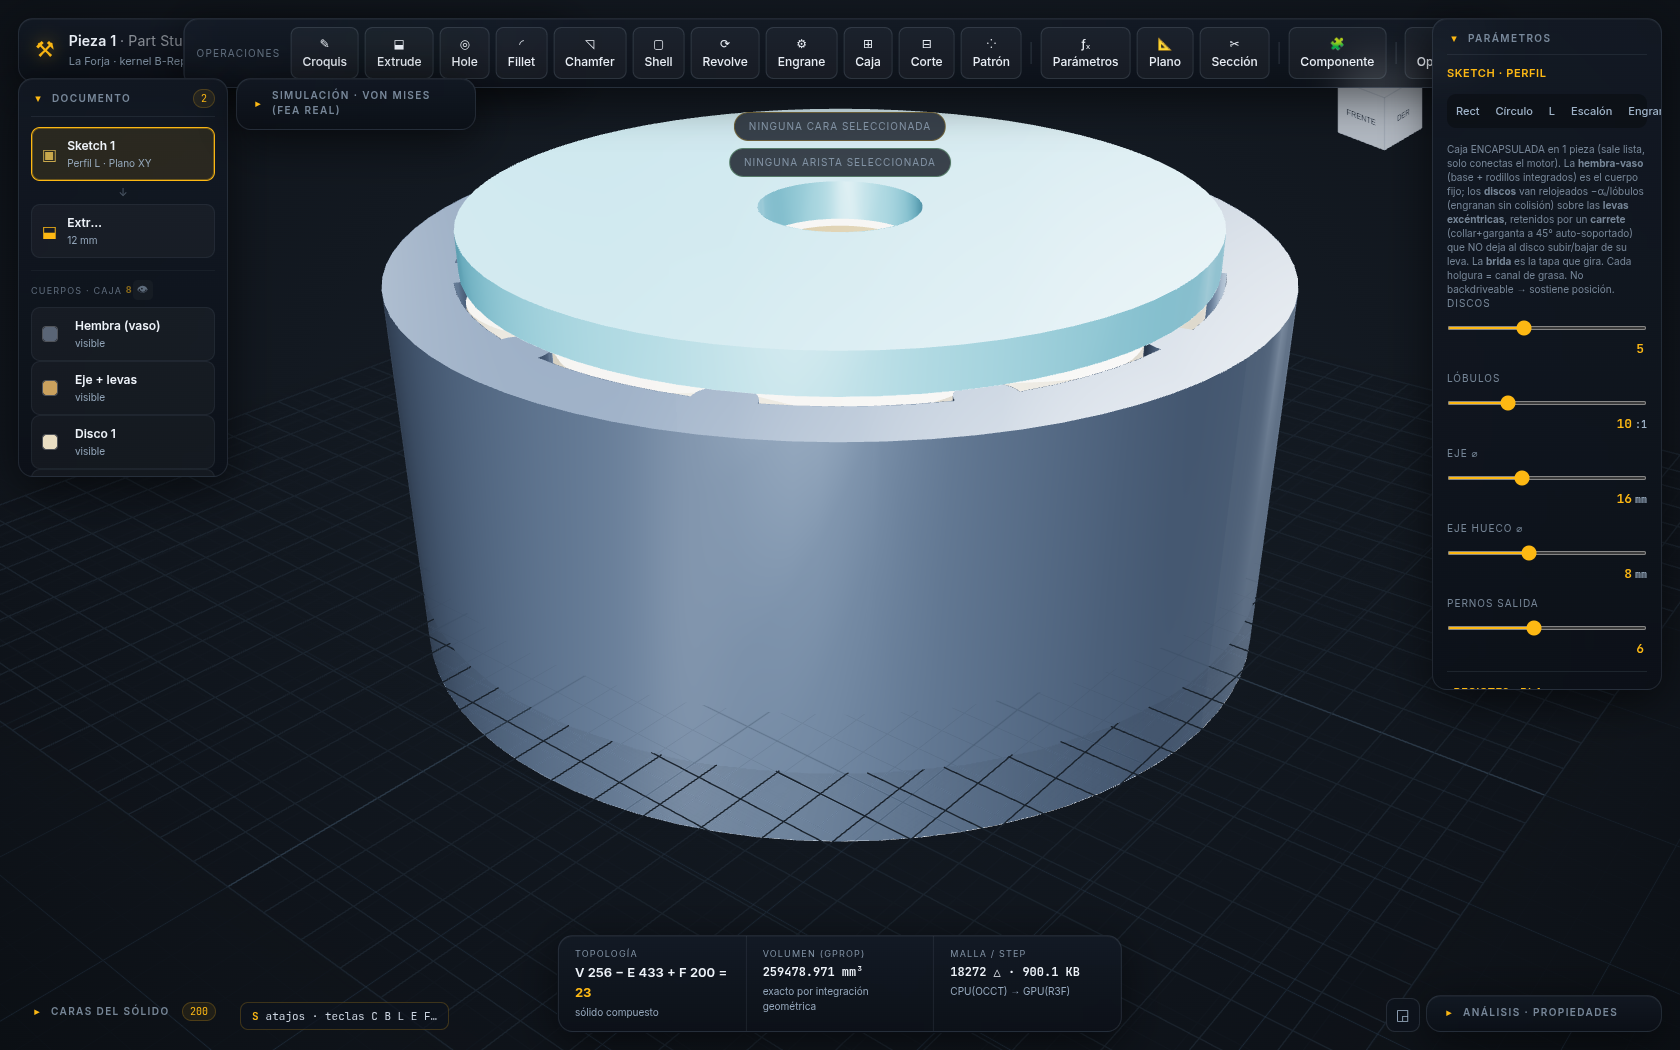
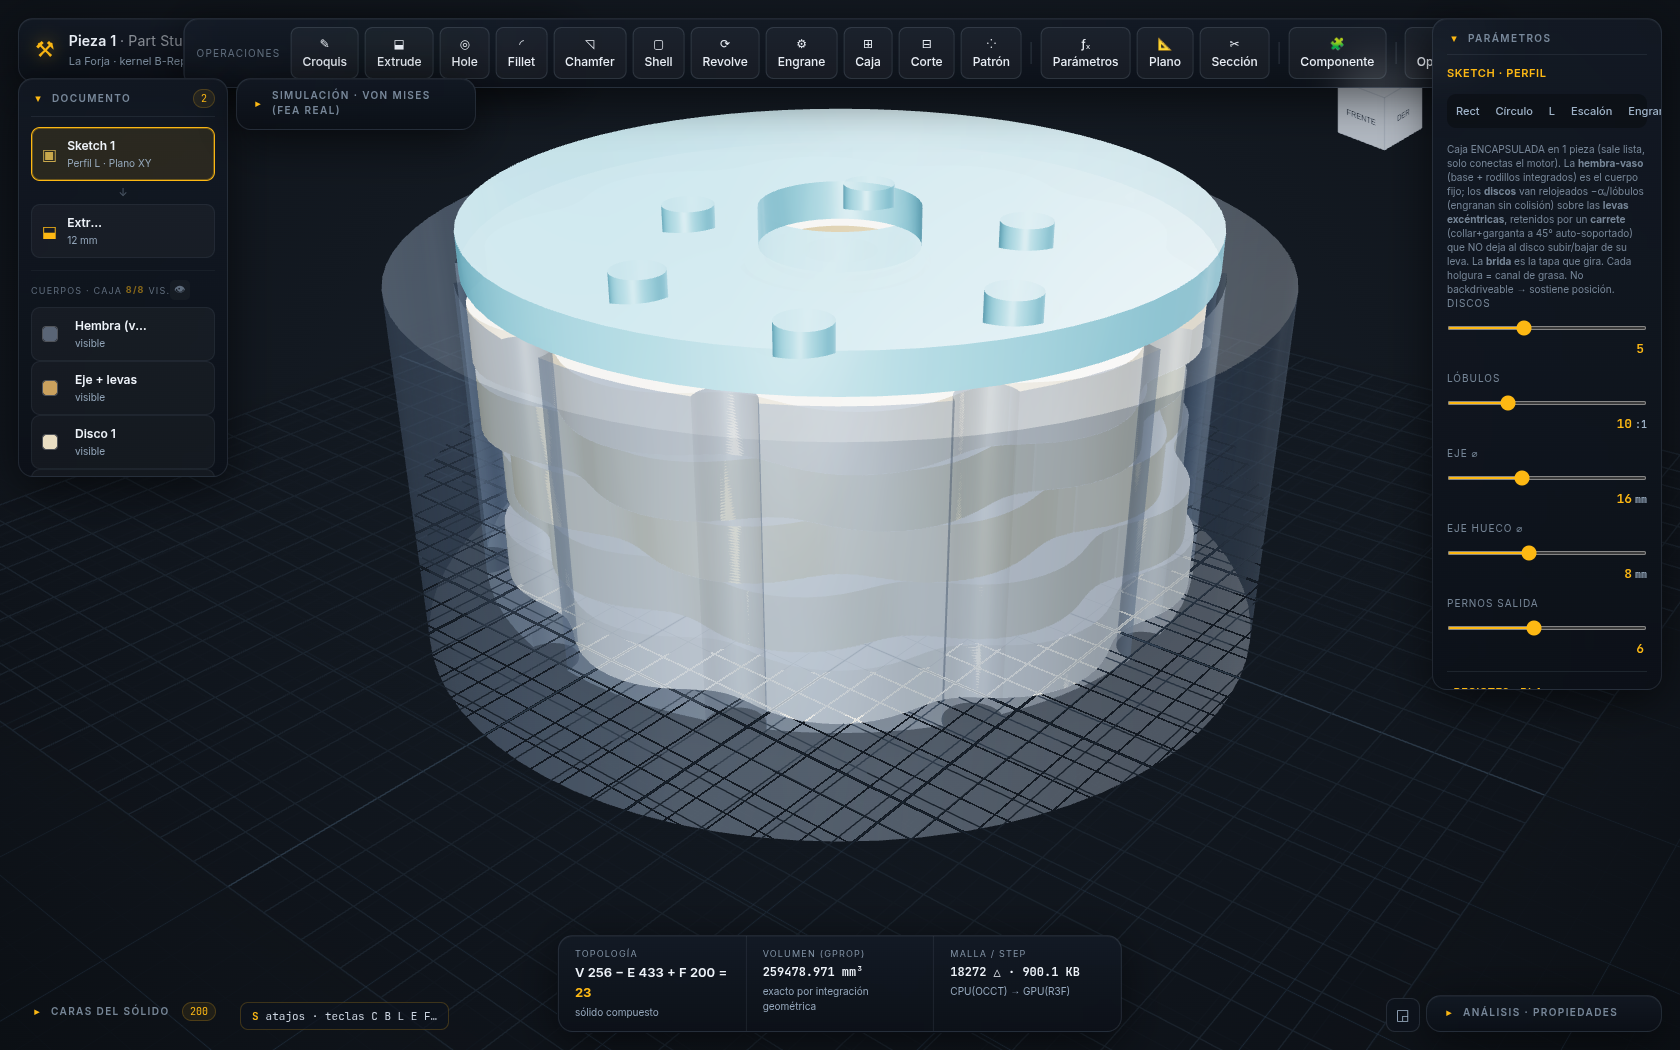
fix(forja): usabilidad de la caja (hallazgos del workflow) — sección SÍ corta, aislar, color visible
El workflow multi-agente (agentes que MIRARON las capturas) encontró que el feature
"funcionaba en datos pero NO se veía en el 3D". Fixes de los P0/P1:

- P0 SECCIÓN AHORA RECORTA: el plano de clip se arma pero la carcasa seguía maciza
  (three no recompilaba al pasar de 0→1 plano). Fix: plano de recorte SIEMPRE presente
  (constante +1e6 = lejísimos cuando off, la flecha lo muta al real) → el material
  compila con clipping desde el inicio. Verificado VISUAL: la caja se corta y se ve el
  interior (discos cortados, cavidad).
- P0 AISLAR (tipo Fusion): doble-clic en el cuerpo o botón ◎ = mostrar SOLO ese (oculta
  el resto); re-clic = mostrar todos. Resuelve que la hembra opaca tapara todo.
- P0 COLOR VISIBLE: cambiar color ahora hace VISIBLE el cuerpo (antes el recoloreado
  quedaba tapado → 0 px del color en el 3D).
- P1 ENTRY STATE: la hembra arranca SEMITRANSPARENTE (opacity 0.28) → ves los cuerpos
  de color adentro de un vistazo (ya no parece pieza maciza).
- P1 ÁRBOL SCROLLABLE: lista de cuerpos con scroll (antes se truncaba a 3/8) + contador
  "n/8 vis." + botón aislar por fila + doble-clic.
- P2 HUD limpio: oculta "Ninguna cara/arista seleccionada" cuando es caja (tapaban el centro).

Verificado en GPU real (usability-capture.cjs): aislar→1 visible, sección aplicada,
color rosa visible, 0 errores. Re-juzgado por workflow.

diff --git a/src/forja/brep/ForgeBRepStudio.tsx b/src/forja/brep/ForgeBRepStudio.tsx
@@ -2955,8 +2955,24 @@ export default function ForgeBRepStudio() {
   }, [oc, sketch.kind, gbSig]);
   const gbColor = useCallback((key: string) => gbColors[key] ?? gbDefaultColor(key), [gbColors]);
   const toggleGbBody = useCallback((key: string) => setGbHidden((h) => ({ ...h, [key]: !h[key] })), []);
-  const setGbColor = useCallback((key: string, color: string) => setGbColors((c) => ({ ...c, [key]: color })), []);
+  // cambiar color SIEMPRE hace visible el cuerpo (si no, el cambio no se ve — bug que vio el workflow)
+  const setGbColor = useCallback((key: string, color: string) => {
+    setGbColors((c) => ({ ...c, [key]: color }));
+    setGbHidden((h) => (h[key] ? { ...h, [key]: false } : h));
+  }, []);
   const showAllGbBodies = useCallback(() => setGbHidden({}), []);
+  // AISLAR (como Fusion): muestra SOLO este cuerpo, oculta el resto. Re-aislar el
+  // mismo (o "mostrar todos") restaura. Resuelve que la hembra opaca tape todo.
+  const isolateGbBody = useCallback((key: string) => {
+    setGbHidden((h) => {
+      const bodies = gbBodyGeos ?? [];
+      const isolated = !h[key] && bodies.every((b) => b.key === key || h[b.key]);
+      if (isolated) return {};   // ya aislado → re-clic = mostrar todos
+      const next: Record<string, boolean> = {};
+      bodies.forEach((b) => { next[b.key] = b.key !== key; });
+      return next;
+    });
+  }, [gbBodyGeos]);
   const printProfile = useMemo<PrintProfile>(
     () => ({ ...PRINT_PROFILES[printProfileKey], material: printMaterial }),
     [printProfileKey, printMaterial],
@@ -2987,8 +3003,15 @@ export default function ForgeBRepStudio() {
   }, [result]);
   // Plano de recorte ESTABLE (objeto único): la flecha del SectionGizmo lo MUTA en
   // mundo cada frame (no recalculamos por estado → arrastre fluido sin re-render).
-  const sectionClip = useMemo(() => [new THREE.Plane(new THREE.Vector3(0, 1, 0), 0)], []);
-  const sectionPlanes = sectionOn && meshBBox ? sectionClip : null;
+  // Plano de recorte SIEMPRE presente (constante +1e6 = lejísimos, no corta nada)
+  // para que el material compile CON clipping desde el inicio (si pasa de 0→1 plano
+  // three a veces no recompila y "no corta" — el bug que el workflow detectó). La
+  // flecha lo MUTA al plano real cuando la sección está activa; al apagar, se aleja.
+  const sectionClip = useMemo(() => [new THREE.Plane(new THREE.Vector3(0, 1, 0), 1e6)], []);
+  useEffect(() => {
+    if (!sectionOn) sectionClip[0].set(new THREE.Vector3(0, 1, 0), 1e6);
+  }, [sectionOn, sectionClip]);
+  const sectionPlanes = sectionClip;   // siempre el array (lejos cuando off)
   // ── MOTOR DE PLANOS: del sólido actual → plano de taller 2D (SVG) ──
   const [planoSvg, setPlanoSvg] = useState<string | null>(null);
   const genPlano = useCallback(() => {
@@ -3209,7 +3232,7 @@ export default function ForgeBRepStudio() {
       setSection: (on: boolean, axis?: 'x' | 'y' | 'z', offset?: number) => { setSectionOn(on); if (axis) setSectionAxis(axis); if (offset != null) setSectionOffset(offset); },
       setSectionOffset: (o: number) => setSectionOffset(o),
       get sectionOn() { return sectionOn; },
-      get sectionPlaneCount() { return sectionPlanes ? sectionPlanes.length : 0; },
+      get sectionPlaneCount() { return sectionOn ? 1 : 0; },
       // Plano de corte EN MUNDO (lo muta la flecha cada frame) — QA verifica que mover
       // el corte cambia el plano (normal según eje, constante según posición).
       get sectionPlane() { const p = sectionClip[0]; return { normal: [+p.normal.x.toFixed(3), +p.normal.y.toFixed(3), +p.normal.z.toFixed(3)], constant: +p.constant.toFixed(3) }; },
@@ -3248,6 +3271,7 @@ export default function ForgeBRepStudio() {
       get gbBodies() { return gbBodyGeos ? gbBodyGeos.map((b) => ({ key: b.key, name: b.name, hidden: !!gbHidden[b.key], color: gbColor(b.key), verts: b.geo.positions.length / 3 })) : null; },
       get gbVisibleCount() { return gbBodyGeos ? gbBodyGeos.filter((b) => !gbHidden[b.key]).length : 0; },
       toggleGbBody: (key: string) => toggleGbBody(key),
+      isolateGbBody: (key: string) => isolateGbBody(key),
       setGbColor: (key: string, color: string) => setGbColor(key, color),
       showAllGbBodies: () => showAllGbBodies(),
       // MOVIMIENTO — driver + cinemática de QA
@@ -3533,10 +3557,13 @@ export default function ForgeBRepStudio() {
             {gbMotion && gbParts ? (
               <GearboxMotion data={gbParts} playing speed={gbSpeed} colors={gbColors} hidden={gbHidden} />
             ) : sketch.kind === 'gearbox' && gbBodyGeos ? (
-              // CAJA en CUERPOS separados: cada uno con su color; oculta el que quieras
-              // (p.ej. la hembra) para ver el interior. La sección los corta a todos.
+              // CAJA en CUERPOS separados, cada uno su color. La HEMBRA arranca
+              // semi-transparente (ves los cuerpos de color adentro de un vistazo, no
+              // una pieza maciza); ocúltala del todo o aísla uno para ver mejor. La
+              // sección (flecha) los corta a todos.
               gbBodyGeos.map((b) => (gbHidden[b.key] ? null : (
                 <PartMesh key={b.key} geo={b.geo} color={gbColor(b.key)} clip={sectionPlanes}
+                  opacity={b.key === 'hembra' ? 0.28 : b.key === 'salida' ? 0.9 : 1}
                   metalness={b.key === 'eje' ? 0.85 : b.key === 'salida' ? 0.25 : b.key === 'hembra' ? 0.45 : 0.05}
                   roughness={b.key.startsWith('disco') ? 0.62 : 0.4} />
               )))
@@ -3623,7 +3650,8 @@ export default function ForgeBRepStudio() {
 
         {/* HUD de selección: el faceId/edgeId que el picking acaba de fijar.
             Playwright lee este nodo para verificar que el clic cambió la cara. */}
-        <div className="fb-hud-sel" data-testid="hud-selected-face">
+        <div className="fb-hud-sel" data-testid="hud-selected-face"
+          style={sketch.kind === 'gearbox' && selectedFaceId == null ? { display: 'none' } : undefined}>
           {selectedFaceId != null ? (
             <>
               <span className="lbl">Cara</span>
@@ -3640,7 +3668,8 @@ export default function ForgeBRepStudio() {
 
         {/* HUD de ARISTA SIEMPRE presente (incluso vacío): Playwright lee este
             nodo antes/después del clic para confirmar el cambio de edgeId. */}
-        <div className="fb-hud-edge" data-testid="hud-selected-edge">
+        <div className="fb-hud-edge" data-testid="hud-selected-edge"
+          style={sketch.kind === 'gearbox' && selectedEdgeId == null ? { display: 'none' } : undefined}>
           {selectedEdgeId != null ? (
             (() => {
               const eg = result?.edgeGeoms.find((g) => g.edgeId === selectedEdgeId);
@@ -3927,15 +3956,18 @@ export default function ForgeBRepStudio() {
             {sketch.kind === 'gearbox' && gbBodyGeos && (
               <>
                 <div className="fb-feat-subhead" data-testid="gb-bodies-head">
-                  Cuerpos · caja <b>{gbBodyGeos.length}</b>
-                  <button className="fb-feat-act" data-testid="gb-show-all" title="Mostrar todos"
+                  Cuerpos · caja <b data-testid="gb-visible-count">{gbBodyGeos.filter((b) => !gbHidden[b.key]).length}/{gbBodyGeos.length}</b> vis.
+                  <button className="fb-feat-act" data-testid="gb-show-all" title="Mostrar todos los cuerpos"
                     onClick={showAllGbBodies} style={{ marginLeft: 'auto' }}>👁</button>
                 </div>
+                <div className="fb-bodies-list" data-testid="gb-bodies-list">
                 {gbBodyGeos.map((b) => {
                   const hidden = !!gbHidden[b.key];
                   return (
                     <div key={b.key} className="fb-feat-node comp" data-testid={`gb-body-${b.key}`}
-                      style={hidden ? { opacity: 0.5 } : undefined}>
+                      style={hidden ? { opacity: 0.5 } : undefined}
+                      onDoubleClick={() => isolateGbBody(b.key)}
+                      title="Doble-clic = AISLAR (mostrar solo este)">
                       <input type="color" className="fb-color-dot" data-testid={`gb-color-${b.key}`}
                         value={gbColor(b.key)} onChange={(e) => setGbColor(b.key, e.target.value)}
                         title="Color del cuerpo" />
@@ -3944,13 +3976,17 @@ export default function ForgeBRepStudio() {
                         <em>{hidden ? 'oculto' : 'visible'}</em>
                       </div>
                       <div className="fb-feat-actions">
+                        <button className="fb-feat-act" data-testid={`gb-isolate-${b.key}`}
+                          onClick={(e) => { e.stopPropagation(); isolateGbBody(b.key); }}
+                          title="Aislar (mostrar solo este)">◎</button>
                         <button className="fb-feat-act" data-testid={`gb-hide-${b.key}`}
-                          onClick={() => toggleGbBody(b.key)}
+                          onClick={(e) => { e.stopPropagation(); toggleGbBody(b.key); }}
                           title={hidden ? 'Mostrar cuerpo' : 'Ocultar cuerpo'}>{hidden ? '🙈' : '👁'}</button>
                       </div>
                     </div>
                   );
                 })}
+                </div>
               </>
             )}
           </aside>
@@ -5138,6 +5174,10 @@ const CSS = `
   border-radius:4px;cursor:pointer;background:transparent;-webkit-appearance:none;appearance:none;margin-right:7px;}
 .fb-color-dot::-webkit-color-swatch{border:0;border-radius:3px;padding:0;}
 .fb-color-dot::-webkit-color-swatch-wrapper{border:0;border-radius:3px;padding:0;}
+.fb-bodies-list{max-height:230px;overflow-y:auto;overflow-x:hidden;margin:0 -2px;padding:0 2px;}
+.fb-bodies-list::-webkit-scrollbar{width:7px;}
+.fb-bodies-list::-webkit-scrollbar-thumb{background:${GOLD}44;border-radius:4px;}
+.fb-bodies-list::-webkit-scrollbar-thumb:hover{background:${GOLD}77;}
 .fb-feat-node.suppressed strong{text-decoration:line-through;}
 .fb-feat-subhead{font-size:9px;text-transform:uppercase;letter-spacing:1.2px;color:${STEEL};
   opacity:.55;margin:12px 0 7px;padding-top:9px;border-top:1px solid rgba(159,179,200,0.1);}
